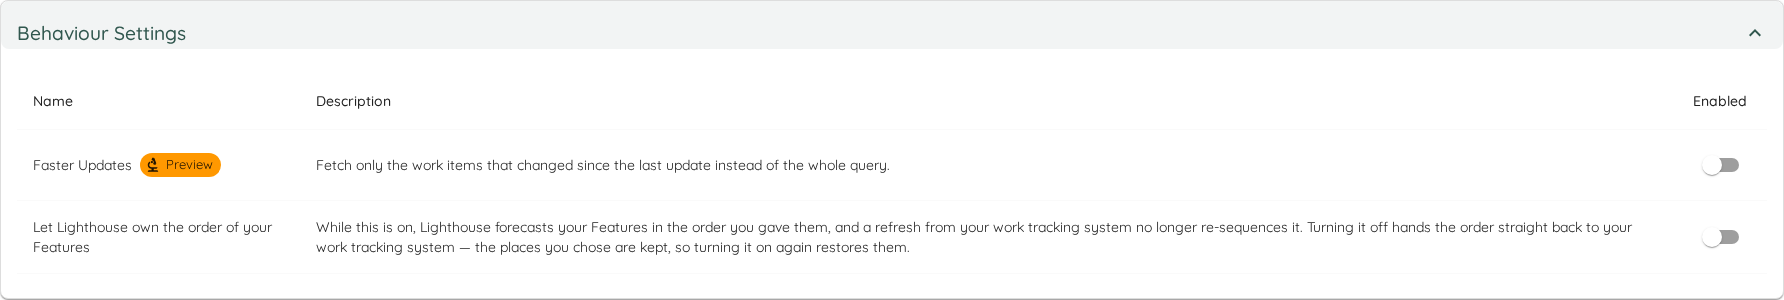
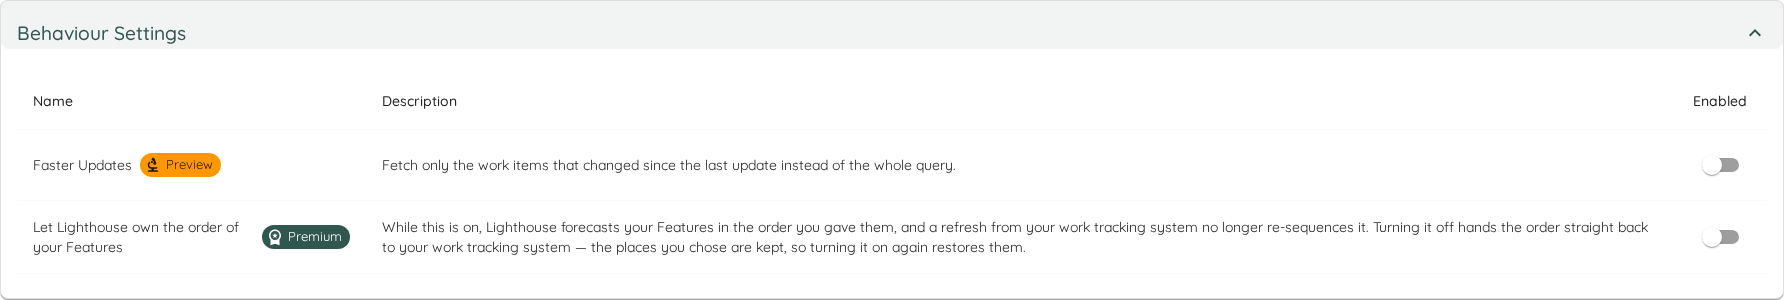
feat(behaviour-settings): say on the row which settings a licence unlocks
A premium row renders a disabled switch and nothing else. Which settings cost
money was discoverable only by hovering each one for the licence tooltip, and the
row that carries the cost now sits in a table beside one that does not.

The badge is a fact about the setting, not about this instance: it shows on an
unlicensed instance too, because an administrator deciding whether to buy a
licence is exactly the reader who needs to see which rows it would unlock.

Screenshots regenerated for the changed table.

Claude-Session: https://claude.ai/code/session_01WuyWcy9ipGCGCPZjHca593

diff --git a/Lighthouse.Frontend/src/pages/Settings/System/SystemSettingsTab.behaviourSettings.test.tsx b/Lighthouse.Frontend/src/pages/Settings/System/SystemSettingsTab.behaviourSettings.test.tsx
@@ -332,4 +332,48 @@ describe("Behaviour Settings", () => {
 
 		expect(mockUpdateFeature).not.toHaveBeenCalled();
 	});
+
+	// A licensed instance shows a disabled switch and nothing else to explain why, so which rows cost
+	// money is only discoverable by hovering each one. The badge says it on the row.
+	it("badges a row that requires a premium licence", async () => {
+		renderTheSystemSettings();
+
+		await waitFor(() => {
+			expect(
+				screen.getByTestId("FeatureOrdering-premium-indicator"),
+			).toBeVisible();
+		});
+
+		expect(
+			screen.getByTestId("FeatureOrdering-premium-indicator"),
+		).toHaveTextContent("Premium");
+	});
+
+	// The badge names a cost, so a row that carries none must not wear it. Without this the obvious
+	// implementation - badge every row - passes the test above and says every setting is paid for.
+	it("leaves a row that costs nothing unbadged", async () => {
+		renderTheSystemSettings();
+
+		await waitFor(() => {
+			expect(screen.getByTestId("feature-row-DeltaSync")).toBeVisible();
+		});
+
+		expect(
+			screen.queryByTestId("DeltaSync-premium-indicator"),
+		).not.toBeInTheDocument();
+	});
+
+	// The badge is a fact about the setting, not about this instance's licence: an administrator
+	// deciding whether to buy one has to be able to see which rows a licence would unlock.
+	it("badges the premium row on an instance without a licence too", async () => {
+		givenTheInstanceHasNoPremiumLicence();
+
+		renderTheSystemSettings();
+
+		await waitFor(() => {
+			expect(
+				screen.getByTestId("FeatureOrdering-premium-indicator"),
+			).toBeVisible();
+		});
+	});
 });

diff --git a/Lighthouse.Frontend/src/pages/Settings/System/SystemSettingsTab.tsx b/Lighthouse.Frontend/src/pages/Settings/System/SystemSettingsTab.tsx
@@ -1,4 +1,5 @@
 import BiotechIcon from "@mui/icons-material/Biotech";
+import WorkspacePremiumIcon from "@mui/icons-material/WorkspacePremium";
 import Box from "@mui/material/Box";
 import Chip from "@mui/material/Chip";
 import Switch from "@mui/material/Switch";
@@ -130,6 +131,18 @@ const SystemSettingsTab: React.FC = () => {
 																color="warning"
 																sx={{ ml: 1 }}
 																data-testid={`${feature.key}-preview-indicator`}
+															/>
+														</Tooltip>
+													)}
+													{feature.isPremium && (
+														<Tooltip title="This setting requires a premium license">
+															<Chip
+																icon={<WorkspacePremiumIcon />}
+																label="Premium"
+																size="small"
+																color="primary"
+																sx={{ ml: 1 }}
+																data-testid={`${feature.key}-premium-indicator`}
 															/>
 														</Tooltip>
 													)}
